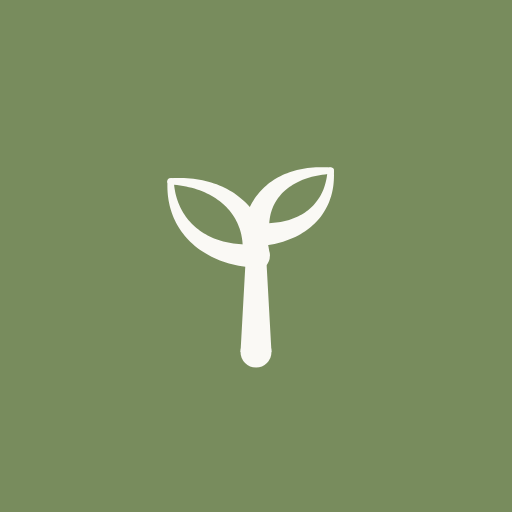
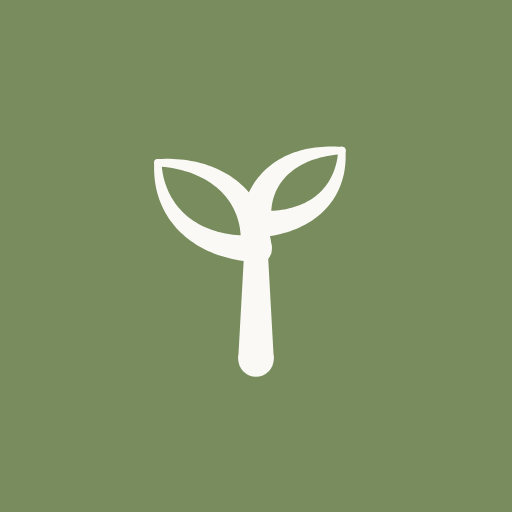
0.11.32 — a bigger sprout
The sprout fills 64 % of its olive tile (was 56 %), raised a touch so the
leaves sit centred; maskable 57.5 %; icon URLs ?v=4.

Changed region(s): [[0.2812, 0.2812, 0.6875, 0.6562], [0.4688, 0.6875, 0.5312, 0.75]]

diff --git a/index.html b/index.html
@@ -833,8 +833,8 @@
 
   </style>
   <link rel="manifest" href="manifest.json">
-  <link rel="apple-touch-icon" href="apple-touch-icon.png?v=3">
-  <link rel="icon" type="image/png" sizes="192x192" href="icon-192.png?v=3">
+  <link rel="apple-touch-icon" href="apple-touch-icon.png?v=4">
+  <link rel="icon" type="image/png" sizes="192x192" href="icon-192.png?v=4">
   <!-- Launch screens (iPhone): light gradient + nb. mark, made by the splash generator -->
   <link rel="apple-touch-startup-image" media="screen and (device-width: 440px) and (device-height: 956px) and (-webkit-device-pixel-ratio: 3) and (orientation: portrait)" href="splash/splash-1320x2868.png">
   <link rel="apple-touch-startup-image" media="screen and (device-width: 402px) and (device-height: 874px) and (-webkit-device-pixel-ratio: 3) and (orientation: portrait)" href="splash/splash-1206x2622.png">
@@ -857,7 +857,7 @@
   }
 
   // ─── VERSION CHECK ────────────────────────────────────────
-  const CURRENT_VERSION = '0.11.31';
+  const CURRENT_VERSION = '0.11.32';
   let updateAvailable = false;
 
   let lastSaid = null, notYetAt = 0;
@@ -991,6 +991,7 @@
   // Same idea as the console's Settings › Version log (release_note): one line per
   // release, what it changed, in plain words. Add the new release on top with each bump.
   const VERSION_LOG = [
+    ['0.11.32', '2026-09-26', 'A bigger sprout', 'The sprout fills more of its olive tile (64 % instead of 56 %), a touch higher so the leaves sit in the middle: home screen, taskbar, tab, header, sign-in cards and launch screens.'],
     ['0.11.31', '2026-09-26', 'Olive', 'Naked Brain turns olive: the default skin (Naked Farm v2) has an olive accent with warm neutrals in the light and the dark mode, and the icon is the sprout drawn as a brush on an olive tile, the same shape as the console\'s, which is now called Naked Heart. The user guide follows.'],
     ['0.11.30', '2026-09-25', 'A new icon', 'Naked Brain has the console\'s minimal mark on its own aqua: a white sprout on a rounded aqua tile - in the header, on the sign-in cards, on the phone\'s home screen, the Windows taskbar and Start menu, and the launch screen.'],
     ['0.11.29', '2026-09-24', 'Inputs on the card', 'The aqua ✓ dot is gone. A task that needs answers says how many on its card, just before its time ("5 inputs"): a weight per batch for a harvest, else the steps of its checklist, once per zone for a round run zone by zone. A card that says nothing needs no input and can be swiped done.'],
@@ -1227,7 +1228,7 @@ document.addEventListener('DOMContentLoaded', () => {
 <div id="passwordGate" class="hidden" role="dialog" aria-modal="true" aria-label="App login">
   <div class="pw-card">
     <div style="text-align:center">
-      <img src="icon-192.png?v=3" alt="" style="width:64px;height:64px;margin:0 auto;display:block">
+      <img src="icon-192.png?v=4" alt="" style="width:64px;height:64px;margin:0 auto;display:block">
       <div style="font-size:var(--text-lg);font-weight:700;margin-top:var(--space-2)">Naked Brain</div>
       <div style="font-size:var(--text-sm);color:var(--text-muted);margin-top:var(--space-1)">Enter your team password to continue</div>
     </div>
@@ -1245,7 +1246,7 @@ document.addEventListener('DOMContentLoaded', () => {
 <div id="authorGate" class="hidden" role="dialog" aria-modal="true" aria-labelledby="authorGateTitle">
   <div class="pw-card">
     <div style="text-align:center">
-      <img src="icon-192.png?v=3" alt="" style="width:56px;height:56px;margin:0 auto var(--space-2);display:block">
+      <img src="icon-192.png?v=4" alt="" style="width:56px;height:56px;margin:0 auto var(--space-2);display:block">
       <div id="authorGateTitle" style="font-size:var(--text-lg);font-weight:700">What's your name?</div>
       <div style="font-size:var(--text-sm);color:var(--text-muted);margin-top:var(--space-1)">It goes on every note you send and every checklist you complete.</div>
     </div>
@@ -1263,7 +1264,7 @@ document.addEventListener('DOMContentLoaded', () => {
 <!-- HEADER -->
 <header>
   <div class="logo">
-    <span class="logo-icon nb-mark" aria-hidden="true"><svg viewBox="0 0 100 100" aria-hidden="true"><path d="M100.00,50.00 L99.83,72.14 L99.31,79.12 L98.44,84.05 L97.20,87.89 L95.58,91.00 L93.53,93.53 L91.00,95.58 L87.89,97.20 L84.05,98.44 L79.12,99.31 L72.14,99.83 L50.00,100.00 L27.86,99.83 L20.88,99.31 L15.95,98.44 L12.11,97.20 L9.00,95.58 L6.47,93.53 L4.42,91.00 L2.80,87.89 L1.56,84.05 L0.69,79.12 L0.17,72.14 L0.00,50.00 L0.17,27.86 L0.69,20.88 L1.56,15.95 L2.80,12.11 L4.42,9.00 L6.47,6.47 L9.00,4.42 L12.11,2.80 L15.95,1.56 L20.88,0.69 L27.86,0.17 L50.00,0.00 L72.14,0.17 L79.12,0.69 L84.05,1.56 L87.89,2.80 L91.00,4.42 L93.53,6.47 L95.58,9.00 L97.20,12.11 L98.44,15.95 L99.31,20.88 L99.83,27.86 Z" fill="#788C5D"/><g fill="#FAF9F5" transform="translate(22.2 22.2) scale(2.315)"><path d="M13.45,21.00 L13.41,20.36 L13.38,19.71 L13.34,19.07 L13.31,18.43 L13.27,17.79 L13.24,17.14 L13.20,16.50 L13.16,15.86 L13.13,15.21 L13.09,14.57 L13.06,13.93 L13.02,13.29 L12.99,12.64 L12.95,12.00 L11.05,12.00 L11.01,12.64 L10.98,13.29 L10.94,13.93 L10.91,14.57 L10.87,15.21 L10.84,15.86 L10.80,16.50 L10.76,17.14 L10.73,17.79 L10.69,18.43 L10.66,19.07 L10.62,19.71 L10.59,20.36 L10.55,21.00 Z"/><circle cx="12.00" cy="21.00" r="1.45"/><circle cx="12.00" cy="12.00" r="0.95"/><path d="M13.30,11.93 L13.15,11.03 L12.92,10.10 L12.59,9.23 L12.16,8.43 L11.65,7.69 L11.06,7.02 L10.39,6.43 L9.65,5.93 L8.85,5.51 L7.99,5.17 L7.07,4.92 L6.10,4.76 L5.07,4.68 L4.01,4.70 L3.99,5.30 L5.01,5.41 L5.94,5.60 L6.79,5.87 L7.56,6.21 L8.24,6.61 L8.85,7.06 L9.36,7.57 L9.79,8.11 L10.14,8.69 L10.42,9.30 L10.61,9.94 L10.72,10.60 L10.75,11.29 L10.70,12.07 Z"/><circle cx="12.00" cy="12.00" r="1.30"/><circle cx="4.00" cy="5.00" r="0.30"/><path d="M3.70,5.02 L3.70,5.88 L3.80,6.73 L3.98,7.56 L4.26,8.36 L4.64,9.12 L5.11,9.84 L5.67,10.50 L6.33,11.10 L7.07,11.64 L7.90,12.10 L8.82,12.48 L9.81,12.78 L10.87,12.99 L11.95,13.10 L12.05,10.90 L11.05,10.92 L10.16,10.86 L9.33,10.73 L8.55,10.52 L7.83,10.25 L7.18,9.91 L6.58,9.50 L6.04,9.03 L5.57,8.50 L5.16,7.91 L4.82,7.26 L4.57,6.56 L4.39,5.80 L4.30,4.98 Z"/><circle cx="4.00" cy="5.00" r="0.30"/><circle cx="12.00" cy="12.00" r="1.10"/><path d="M13.30,10.07 L13.24,9.39 L13.25,8.81 L13.33,8.25 L13.48,7.71 L13.69,7.20 L13.97,6.72 L14.32,6.26 L14.75,5.83 L15.26,5.44 L15.85,5.10 L16.52,4.81 L17.27,4.57 L18.10,4.40 L19.01,4.30 L18.99,3.70 L18.04,3.67 L17.12,3.73 L16.26,3.85 L15.44,4.05 L14.67,4.33 L13.96,4.69 L13.30,5.12 L12.71,5.62 L12.18,6.20 L11.73,6.85 L11.35,7.56 L11.05,8.32 L10.84,9.14 L10.70,9.93 Z"/><circle cx="12.00" cy="10.00" r="1.30"/><circle cx="19.00" cy="4.00" r="0.30"/><path d="M18.70,3.98 L18.62,4.70 L18.46,5.35 L18.24,5.95 L17.95,6.50 L17.60,6.99 L17.20,7.43 L16.74,7.81 L16.23,8.14 L15.66,8.41 L15.04,8.63 L14.37,8.79 L13.64,8.89 L12.85,8.93 L11.96,8.90 L12.04,11.10 L13.02,11.00 L13.97,10.81 L14.86,10.55 L15.67,10.22 L16.40,9.81 L17.06,9.34 L17.64,8.81 L18.13,8.23 L18.53,7.61 L18.85,6.94 L19.08,6.24 L19.23,5.52 L19.30,4.77 L19.30,4.02 Z"/><circle cx="19.00" cy="4.00" r="0.30"/><circle cx="12.00" cy="10.00" r="1.10"/></g></svg></span>
+    <span class="logo-icon nb-mark" aria-hidden="true"><svg viewBox="0 0 100 100" aria-hidden="true"><path d="M100.00,50.00 L99.83,72.14 L99.31,79.12 L98.44,84.05 L97.20,87.89 L95.58,91.00 L93.53,93.53 L91.00,95.58 L87.89,97.20 L84.05,98.44 L79.12,99.31 L72.14,99.83 L50.00,100.00 L27.86,99.83 L20.88,99.31 L15.95,98.44 L12.11,97.20 L9.00,95.58 L6.47,93.53 L4.42,91.00 L2.80,87.89 L1.56,84.05 L0.69,79.12 L0.17,72.14 L0.00,50.00 L0.17,27.86 L0.69,20.88 L1.56,15.95 L2.80,12.11 L4.42,9.00 L6.47,6.47 L9.00,4.42 L12.11,2.80 L15.95,1.56 L20.88,0.69 L27.86,0.17 L50.00,0.00 L72.14,0.17 L79.12,0.69 L84.05,1.56 L87.89,2.80 L91.00,4.42 L93.53,6.47 L95.58,9.00 L97.20,12.11 L98.44,15.95 L99.31,20.88 L99.83,27.86 Z" fill="#788C5D"/><g fill="#FAF9F5" transform="translate(18.00 16.40) scale(2.6667)"><path d="M13.45,21.00 L13.41,20.36 L13.38,19.71 L13.34,19.07 L13.31,18.43 L13.27,17.79 L13.24,17.14 L13.20,16.50 L13.16,15.86 L13.13,15.21 L13.09,14.57 L13.06,13.93 L13.02,13.29 L12.99,12.64 L12.95,12.00 L11.05,12.00 L11.01,12.64 L10.98,13.29 L10.94,13.93 L10.91,14.57 L10.87,15.21 L10.84,15.86 L10.80,16.50 L10.76,17.14 L10.73,17.79 L10.69,18.43 L10.66,19.07 L10.62,19.71 L10.59,20.36 L10.55,21.00 Z"/><circle cx="12.00" cy="21.00" r="1.45"/><circle cx="12.00" cy="12.00" r="0.95"/><path d="M13.30,11.93 L13.15,11.03 L12.92,10.10 L12.59,9.23 L12.16,8.43 L11.65,7.69 L11.06,7.02 L10.39,6.43 L9.65,5.93 L8.85,5.51 L7.99,5.17 L7.07,4.92 L6.10,4.76 L5.07,4.68 L4.01,4.70 L3.99,5.30 L5.01,5.41 L5.94,5.60 L6.79,5.87 L7.56,6.21 L8.24,6.61 L8.85,7.06 L9.36,7.57 L9.79,8.11 L10.14,8.69 L10.42,9.30 L10.61,9.94 L10.72,10.60 L10.75,11.29 L10.70,12.07 Z"/><circle cx="12.00" cy="12.00" r="1.30"/><circle cx="4.00" cy="5.00" r="0.30"/><path d="M3.70,5.02 L3.70,5.88 L3.80,6.73 L3.98,7.56 L4.26,8.36 L4.64,9.12 L5.11,9.84 L5.67,10.50 L6.33,11.10 L7.07,11.64 L7.90,12.10 L8.82,12.48 L9.81,12.78 L10.87,12.99 L11.95,13.10 L12.05,10.90 L11.05,10.92 L10.16,10.86 L9.33,10.73 L8.55,10.52 L7.83,10.25 L7.18,9.91 L6.58,9.50 L6.04,9.03 L5.57,8.50 L5.16,7.91 L4.82,7.26 L4.57,6.56 L4.39,5.80 L4.30,4.98 Z"/><circle cx="4.00" cy="5.00" r="0.30"/><circle cx="12.00" cy="12.00" r="1.10"/><path d="M13.30,10.07 L13.24,9.39 L13.25,8.81 L13.33,8.25 L13.48,7.71 L13.69,7.20 L13.97,6.72 L14.32,6.26 L14.75,5.83 L15.26,5.44 L15.85,5.10 L16.52,4.81 L17.27,4.57 L18.10,4.40 L19.01,4.30 L18.99,3.70 L18.04,3.67 L17.12,3.73 L16.26,3.85 L15.44,4.05 L14.67,4.33 L13.96,4.69 L13.30,5.12 L12.71,5.62 L12.18,6.20 L11.73,6.85 L11.35,7.56 L11.05,8.32 L10.84,9.14 L10.70,9.93 Z"/><circle cx="12.00" cy="10.00" r="1.30"/><circle cx="19.00" cy="4.00" r="0.30"/><path d="M18.70,3.98 L18.62,4.70 L18.46,5.35 L18.24,5.95 L17.95,6.50 L17.60,6.99 L17.20,7.43 L16.74,7.81 L16.23,8.14 L15.66,8.41 L15.04,8.63 L14.37,8.79 L13.64,8.89 L12.85,8.93 L11.96,8.90 L12.04,11.10 L13.02,11.00 L13.97,10.81 L14.86,10.55 L15.67,10.22 L16.40,9.81 L17.06,9.34 L17.64,8.81 L18.13,8.23 L18.53,7.61 L18.85,6.94 L19.08,6.24 L19.23,5.52 L19.30,4.77 L19.30,4.02 Z"/><circle cx="19.00" cy="4.00" r="0.30"/><circle cx="12.00" cy="10.00" r="1.10"/></g></svg></span>
     <span class="logo-words"><span class="logo-text">Naked <span>Brain</span></span><span class="logo-beta">beta <span id="versionDisplay">0.10.0</span></span></span>
   </div>
   <div class="header-actions">

diff --git a/sw.js b/sw.js
@@ -1,4 +1,4 @@
-const CACHE_NAME = 'ugly200-v119';
+const CACHE_NAME = 'ugly200-v120';
 const STATIC_ASSETS = [
   './',
   './index.html',
